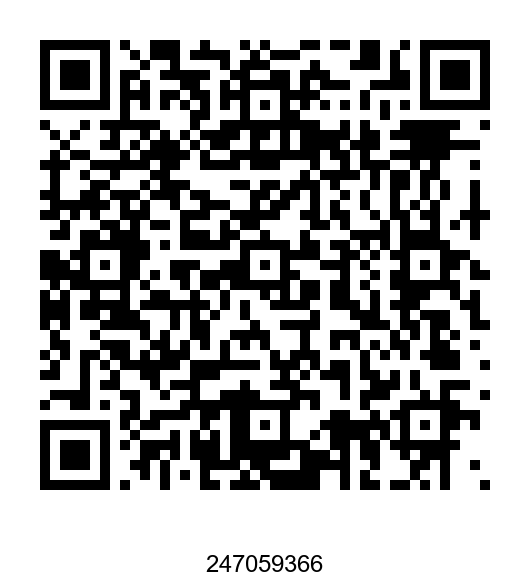
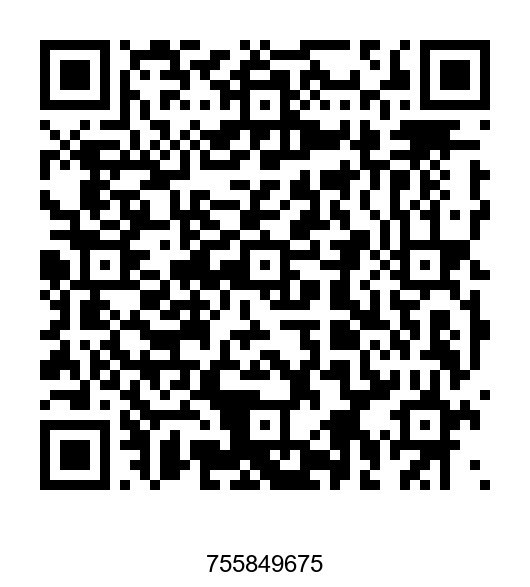
qr codes 10

diff --git a/generate_qr.py b/generate_qr.py
@@ -2,36 +2,52 @@ from itsdangerous import URLSafeTimedSerializer
 from PIL import Image, ImageDraw, ImageFont
 import qrcode
 import product_codes_dict
+import os
+import argparse
 
 SECRET_KEY = "youngenterprise"
 serializer = URLSafeTimedSerializer(SECRET_KEY)
 
-product_codes_dict.generate_new_key()
-product_ids = product_codes_dict.valid_product_codes
-product_id = list(product_ids.keys())[-1]
-label = product_ids[product_id]["key"]
+def generate_qr_code(product_id, label):
+    token = serializer.dumps(product_id)
+    qr_img = qrcode.make(f"https://theaceous-stephine-hylozoic.ngrok-free.dev/play?token={token}").convert("RGB")
 
-token = serializer.dumps(product_id)
-qr_img = qrcode.make(f"https://theaceous-stephine-hylozoic.ngrok-free.dev/play?token={token}").convert("RGB")
+    try:
+        font = ImageFont.truetype("arial.ttf", 24)
+    except IOError:
+        font = ImageFont.load_default()
 
-try:
-    font = ImageFont.truetype("arial.ttf", 24)
-except IOError:
-    font = ImageFont.load_default()
+    dummy_draw = ImageDraw.Draw(qr_img)
+    bbox = dummy_draw.textbbox((0, 0), label, font=font)
+    text_w = bbox[2] - bbox[0]
+    text_h = bbox[3] - bbox[1]
 
-dummy_draw = ImageDraw.Draw(qr_img)
-bbox = dummy_draw.textbbox((0, 0), label, font=font)
-text_w = bbox[2] - bbox[0]
-text_h = bbox[3] - bbox[1]
+    padding = 20
+    qr_w, qr_h = qr_img.size
 
-padding = 20
-qr_w, qr_h = qr_img.size
+    canvas = Image.new("RGB", (qr_w, qr_h + text_h + padding * 2), "white")
+    canvas.paste(qr_img, (0, 0))
 
-canvas = Image.new("RGB", (qr_w, qr_h + text_h + padding * 2), "white")
-canvas.paste(qr_img, (0, 0))
+    draw = ImageDraw.Draw(canvas)
+    draw.text(((qr_w - text_w) // 2, qr_h + padding), label, fill="black", font=font)
 
-draw = ImageDraw.Draw(canvas)
-draw.text(((qr_w - text_w) // 2, qr_h + padding), label, fill="black", font=font)
+    os.makedirs("qrcodes", exist_ok=True)
+    canvas.save(f"qrcodes/{product_id}.png")
+    print(f"Saved qrcodes/{product_id}.png")
 
-canvas.save(f"qrcodes/{product_id}.png")
-print(f"Saved qrcodes/{product_id}.png")
+
+def main(count):
+    for i in range(count):
+        product_codes_dict.generate_new_key()
+        product_ids = product_codes_dict.valid_product_codes
+        product_id = list(product_ids.keys())[-1]
+        label = product_ids[product_id]["key"]
+        generate_qr_code(product_id, label)
+        print(f"Generated {i + 1}/{count}")
+
+
+if __name__ == "__main__":
+    parser = argparse.ArgumentParser(description="Generate QR codes for products.")
+    parser.add_argument("count", type=int, help="Number of QR codes to generate")
+    args = parser.parse_args()
+    main(args.count)

diff --git a/product_codes_dict.py b/product_codes_dict.py
@@ -11,10 +11,7 @@ def _load():
     if os.path.exists(STORE):
         with open(STORE) as f:
             return json.load(f)
-    defaults = {
-        "order-0001": {"key": make_key()},
-        "arka-key":   {"key": make_key()}
-    }
+    defaults = {}
     _save(defaults)
     return defaults
 
@@ -26,7 +23,7 @@ valid_product_codes = _load()
 
 def generate_new_key():
     l = len(valid_product_codes)
-    new_id = f"ordker-{str(l + 1).zfill(4)}"
+    new_id = f"order-{str(l + 1).zfill(4)}"
     valid_product_codes[new_id] = {"key": make_key()}
     _save(valid_product_codes)
     return new_id

diff --git a/join_qr.py b/join_qr.py
@@ -1,4 +1,4 @@
 import qrcode
-img = qrcode.make("https://theaceous-stephine-hylozoic.ngrok-free.dev/join")
+img = qrcode.make("https://game.aceofkings.space/join")
 type(img)  # qrcode.image.pil.PilImage
 img.save("qrcodes/join.png")
